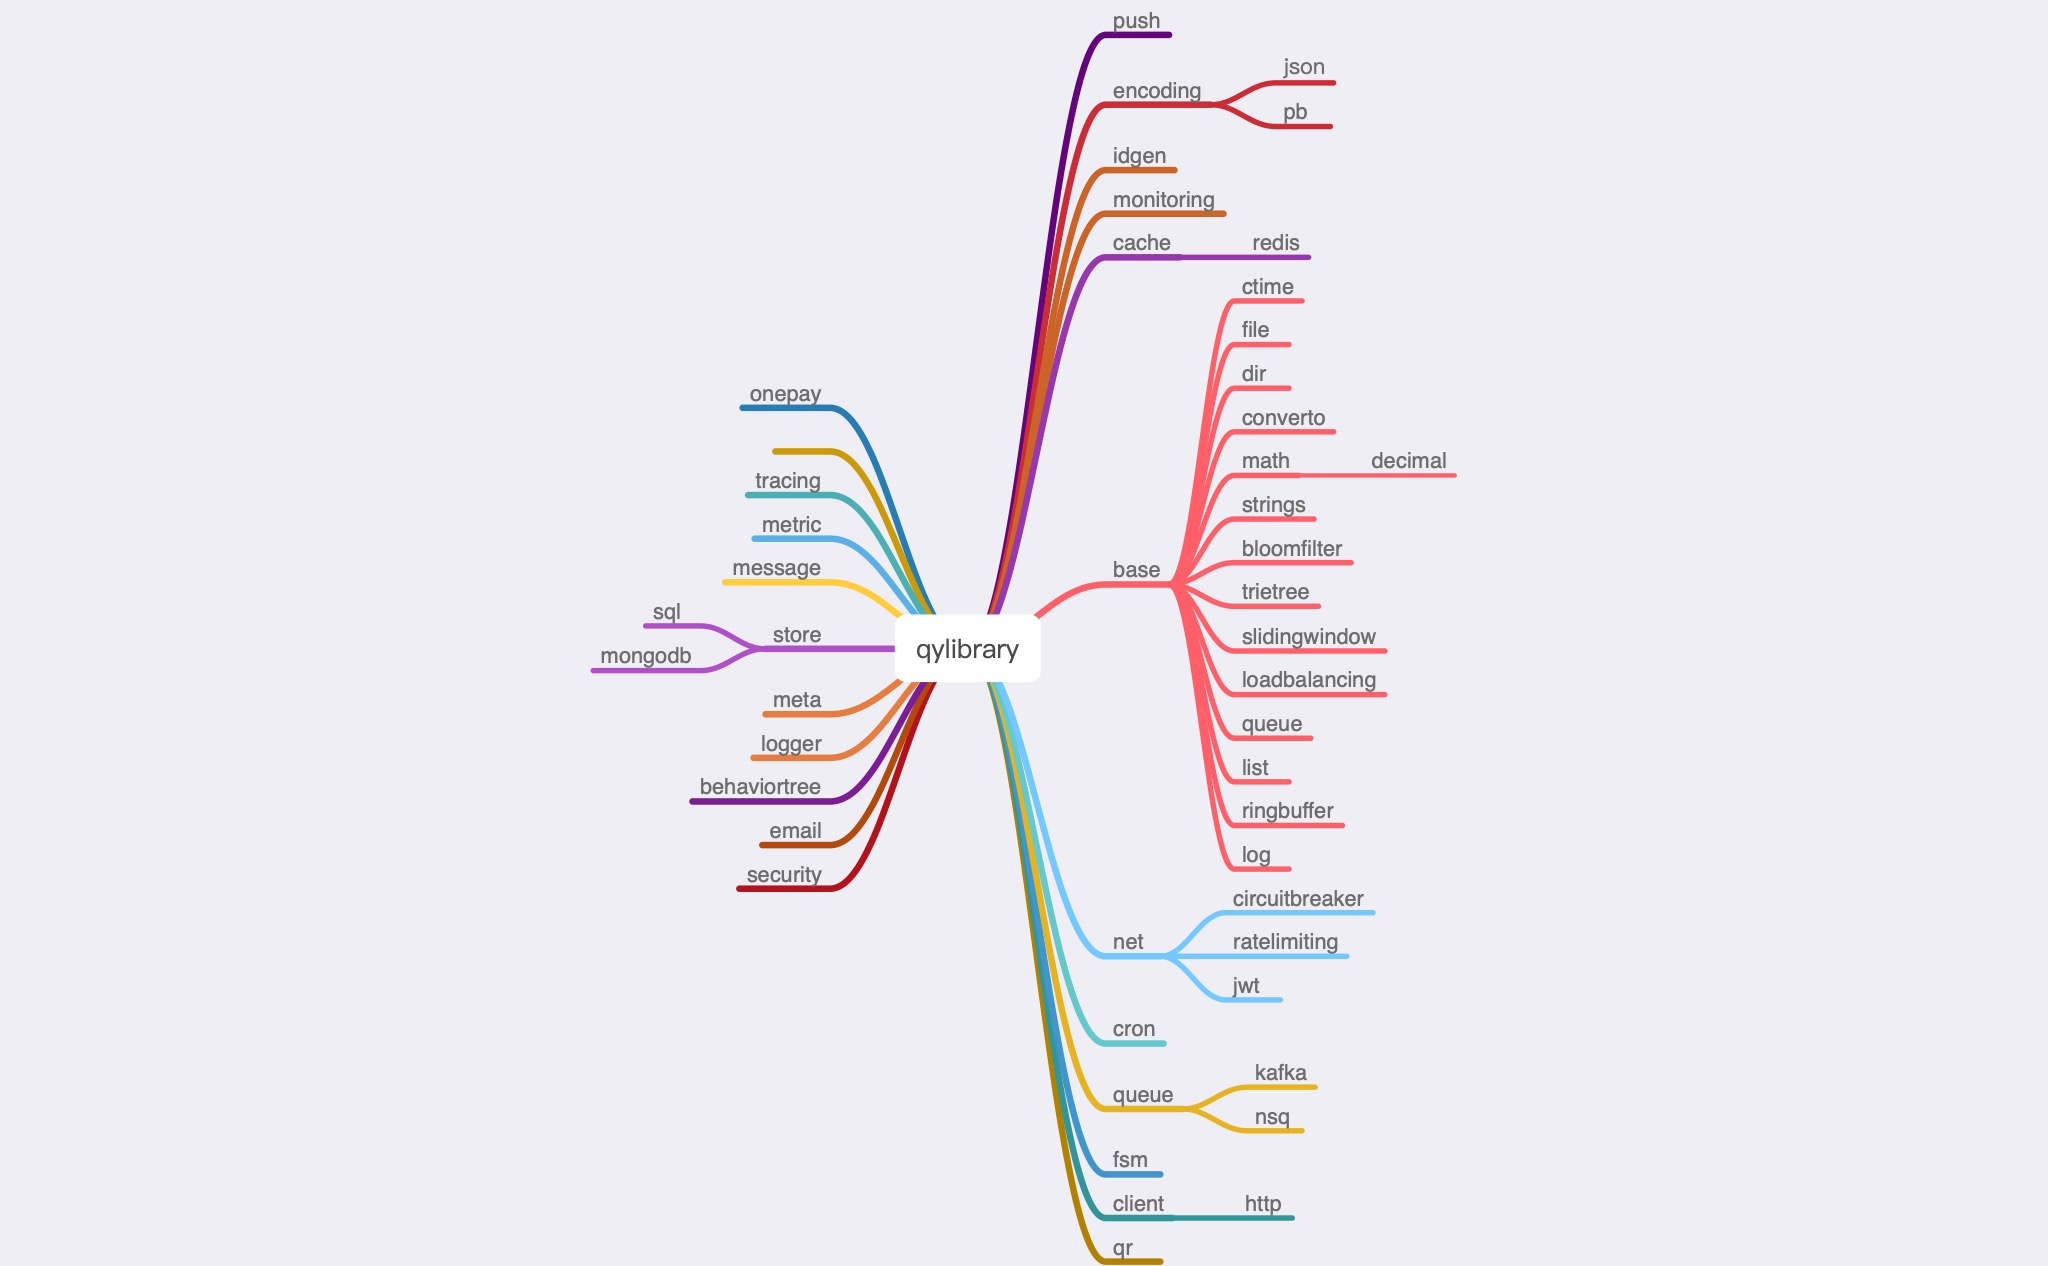
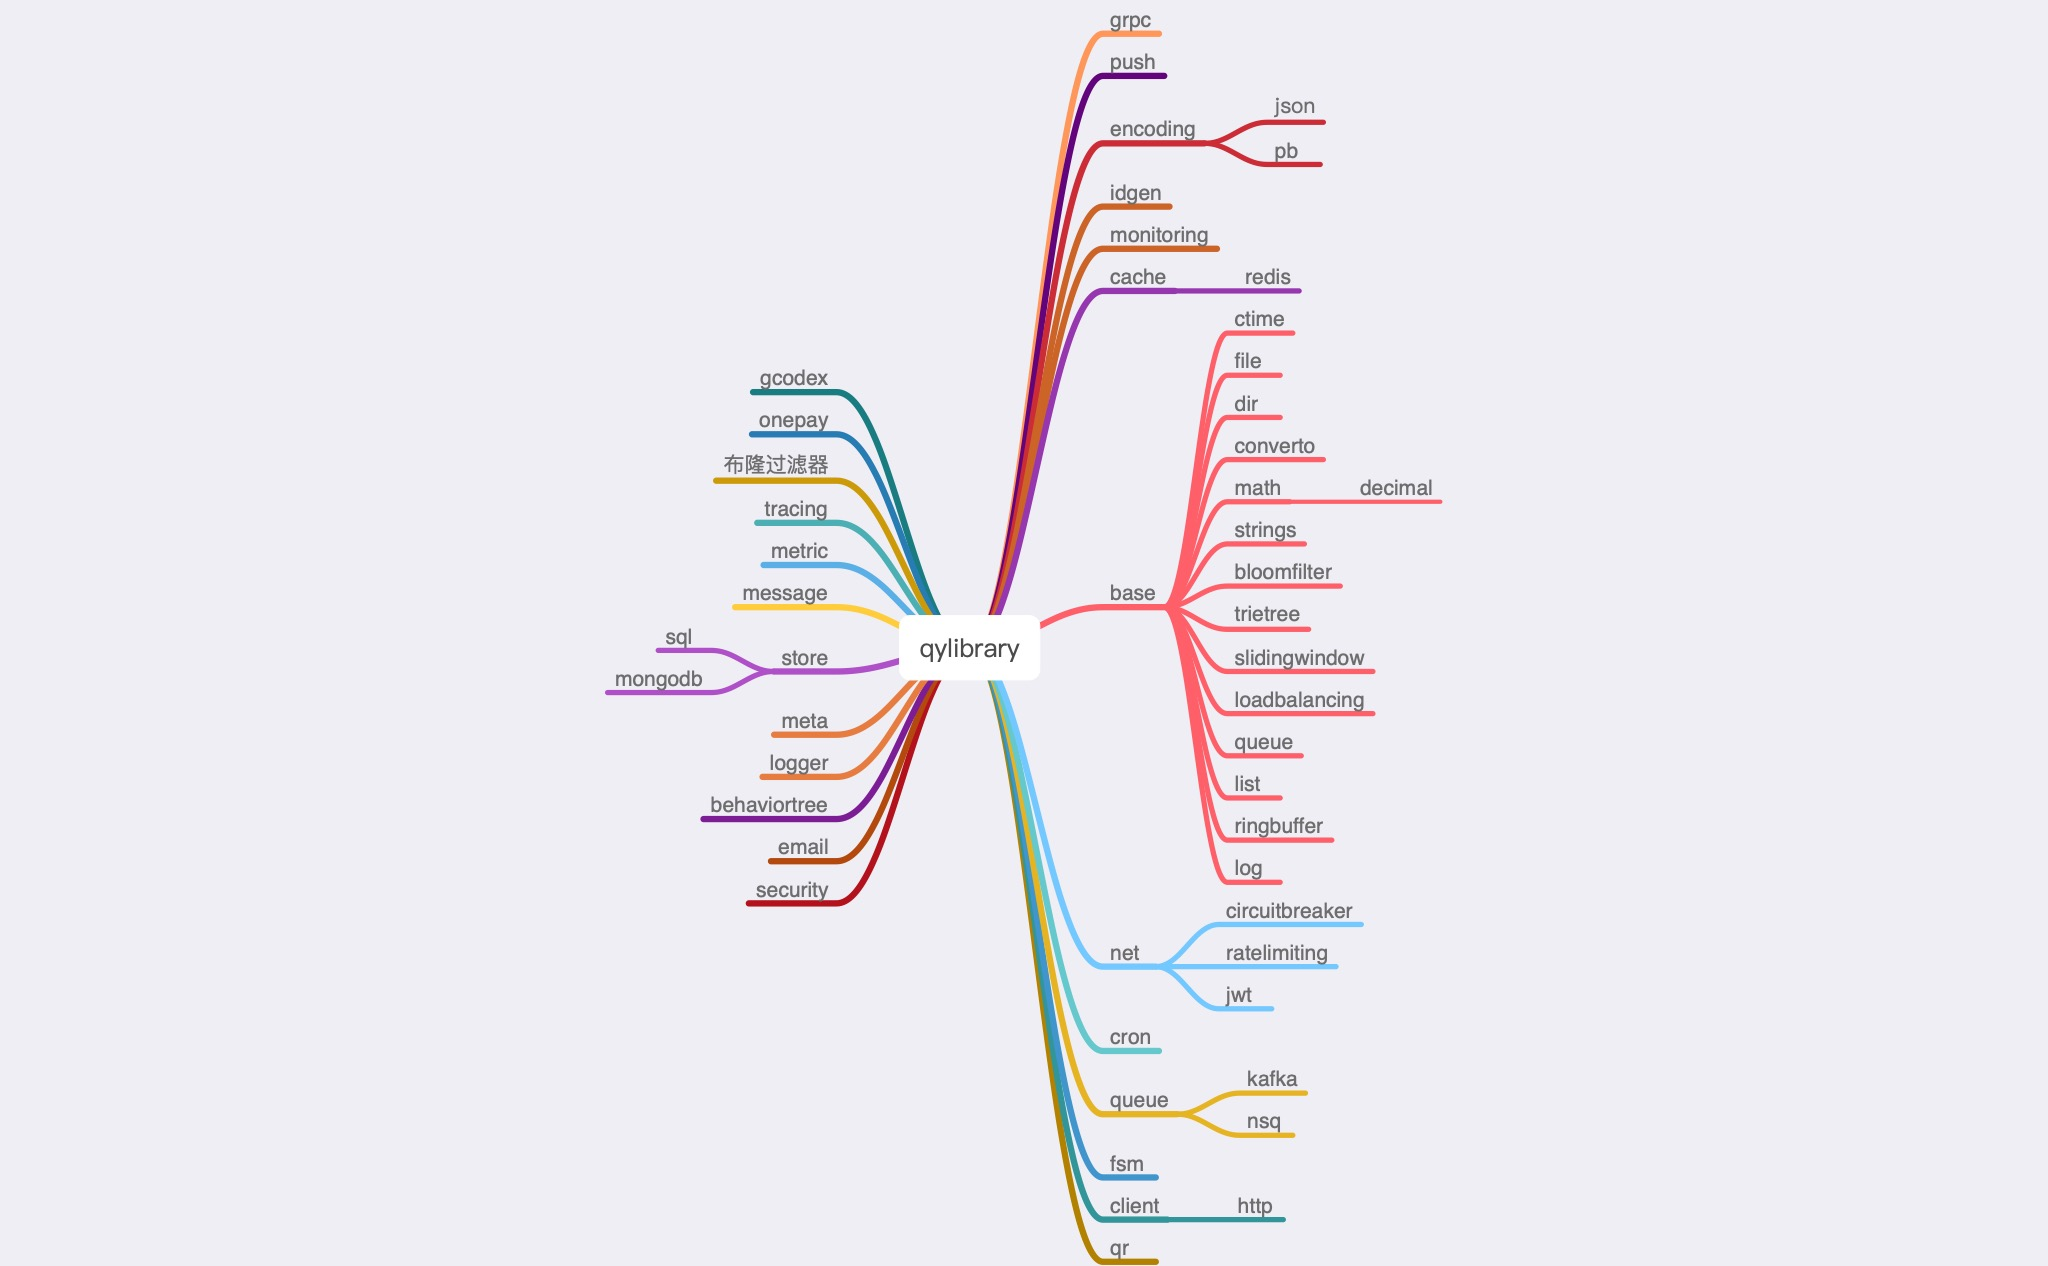
优化目录结构

Changed region(s): [[0.2812, 0.0, 0.7188, 1.0]]

diff --git a/packages/gcodex/tmpl/project_tmpl.go b/packages/gcodex/tmpl/project_tmpl.go
@@ -1,0 +1,8 @@
+package gcodex
+
+import(
+	"stringer"
+)
+
+func FuncGen()string{
+}

diff --git a/packages/fastorm/README.md b/packages/fastorm/README.md
@@ -1,0 +1,29 @@
+# fastorm 高性能ORM 库
+
+借鉴：
+go get github.com/olivere/dapper.
+
+https://github.com/StackExchange/Dapper.git
+
+参考 泛型+sync.pool 拷贝+反射
+
+## 功能：
+
+- CRUD 操作
+- InsertBulk 批量处理
+- 自定义日志打印
+- 连接池复用
+- 支持存储过程
+- left 关联查询
+- 数据模型：不可变，不可删，可变可删
+- 支持事务、索引、复合主键
+- Auto Migration
+- Speedy and high performance
+Fewer lines of code
+Object mapper
+Choice of static/dynamic object binding
+Easy handling of SQL query
+Multiple query support
+Support and easy handling of stored procedures
+Operating directly on IDbConnection interface
+Bulk data insert functionality
